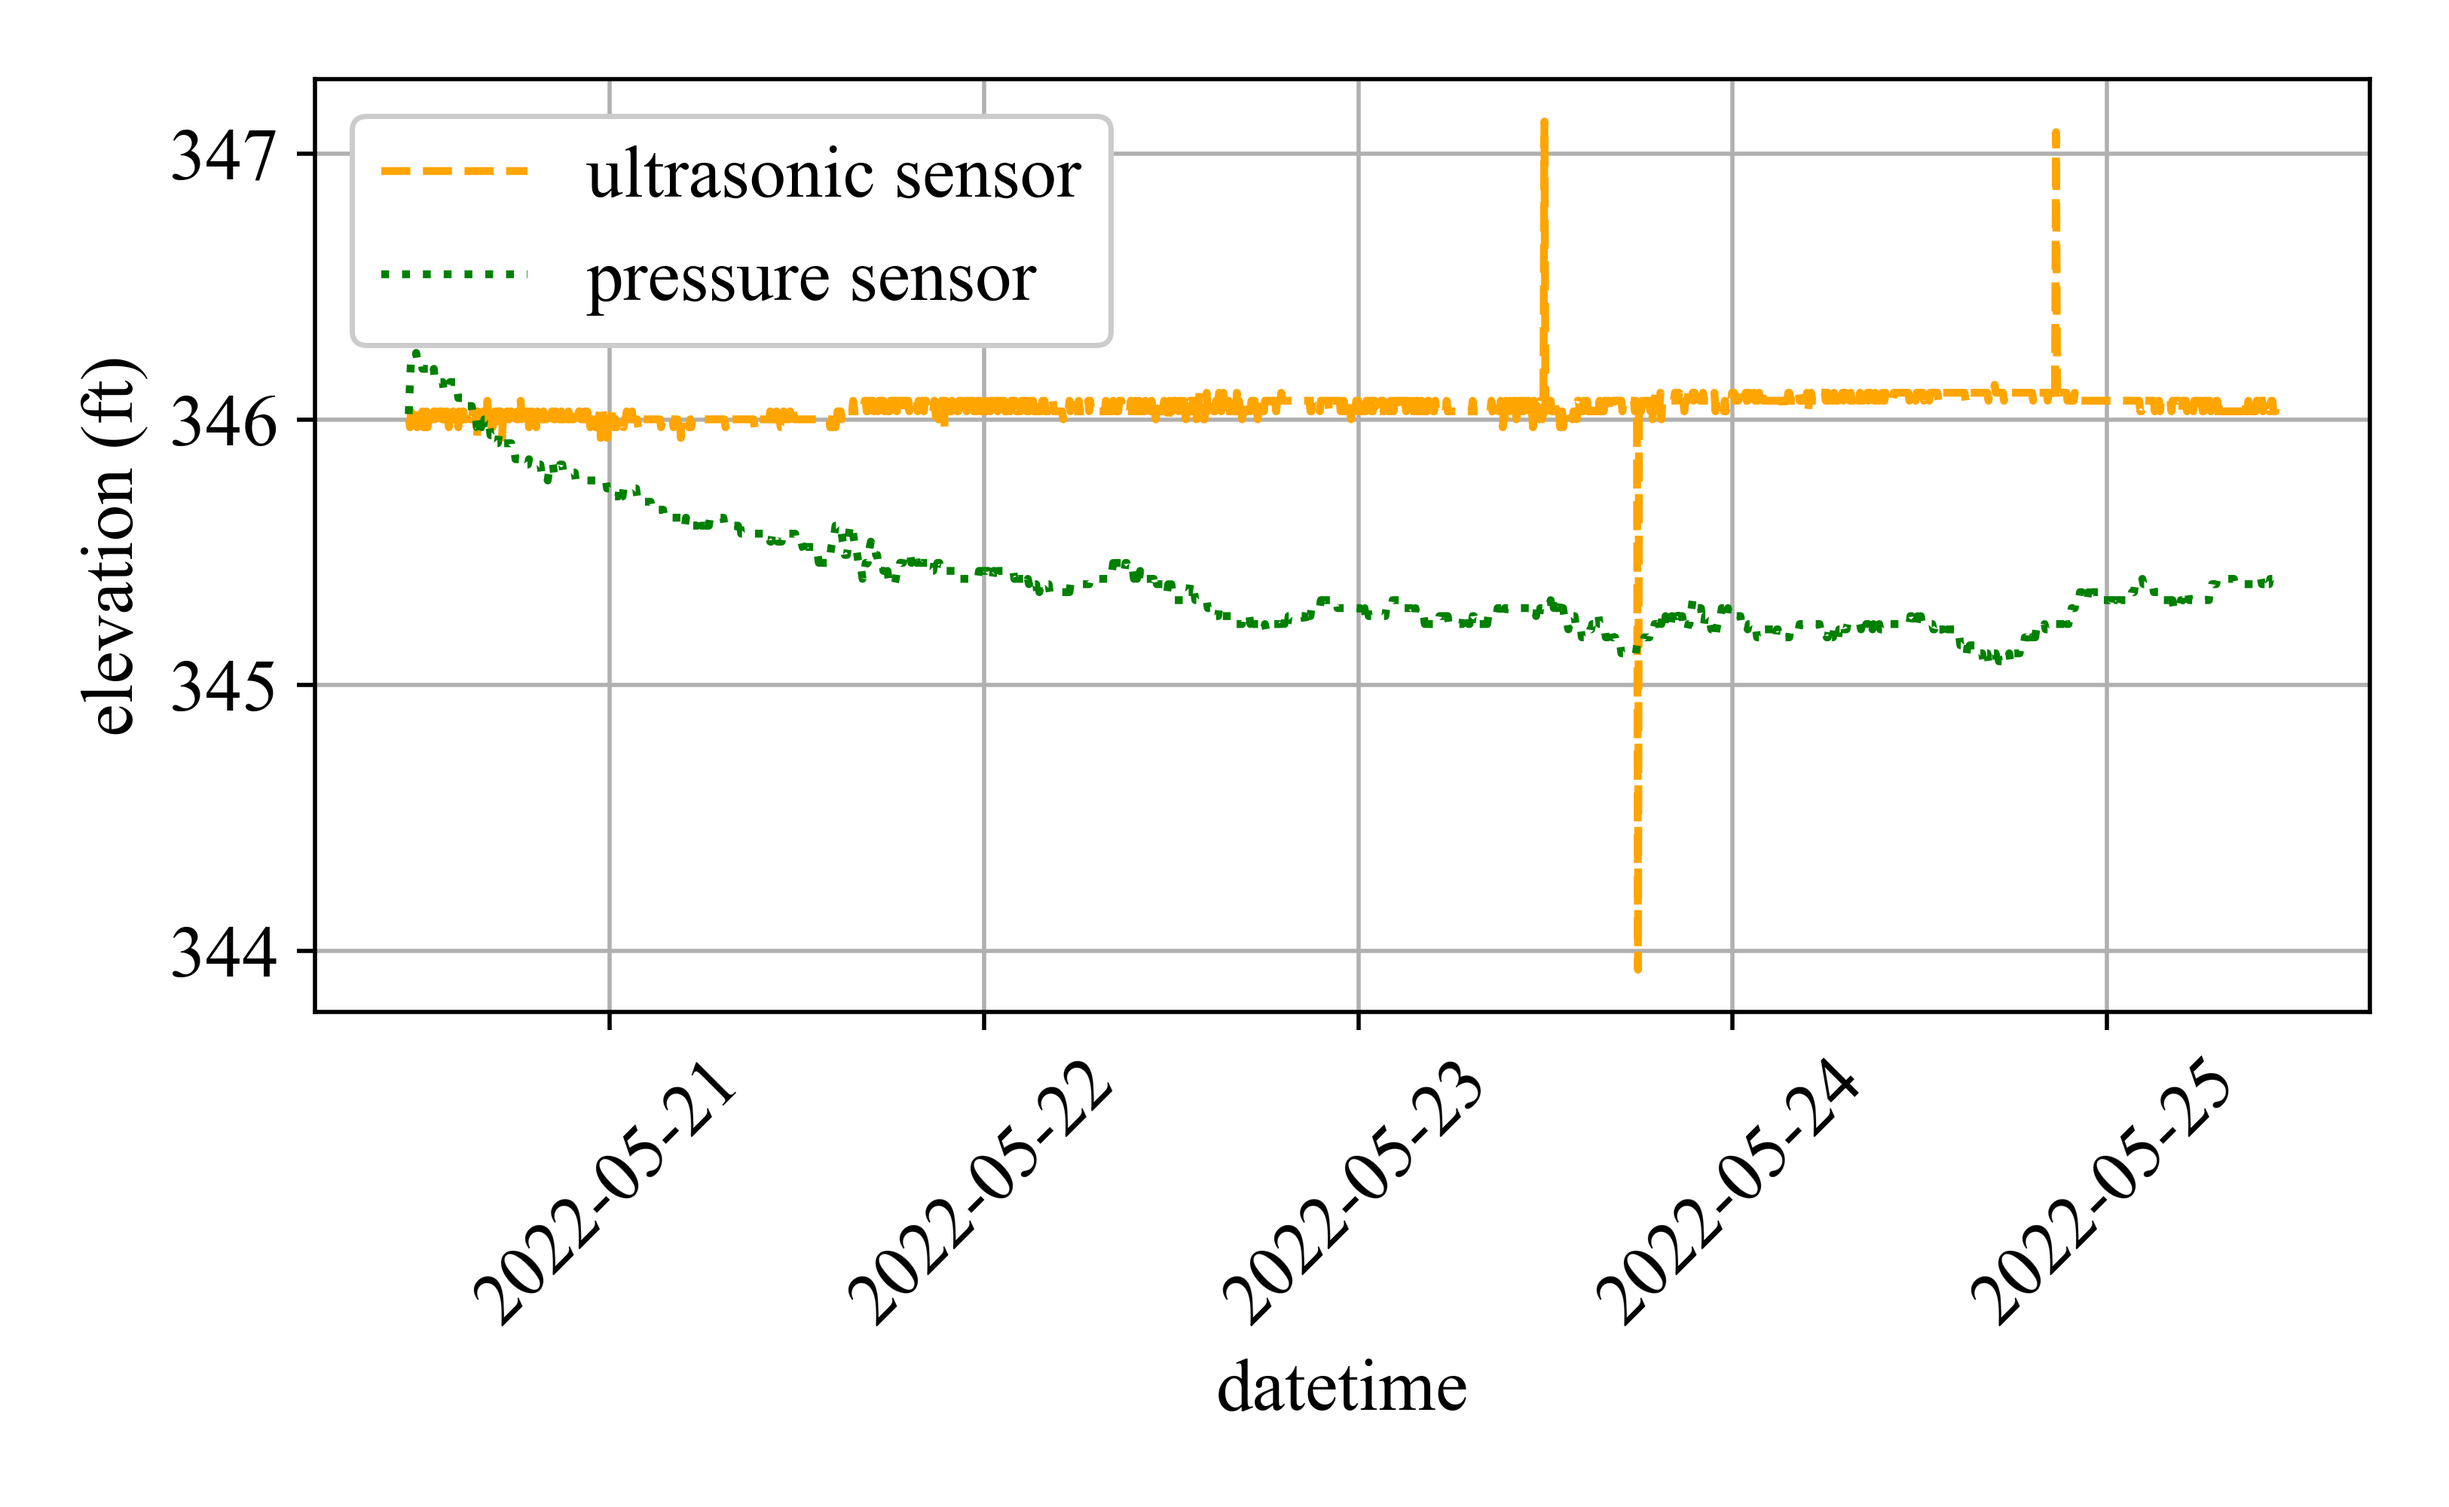
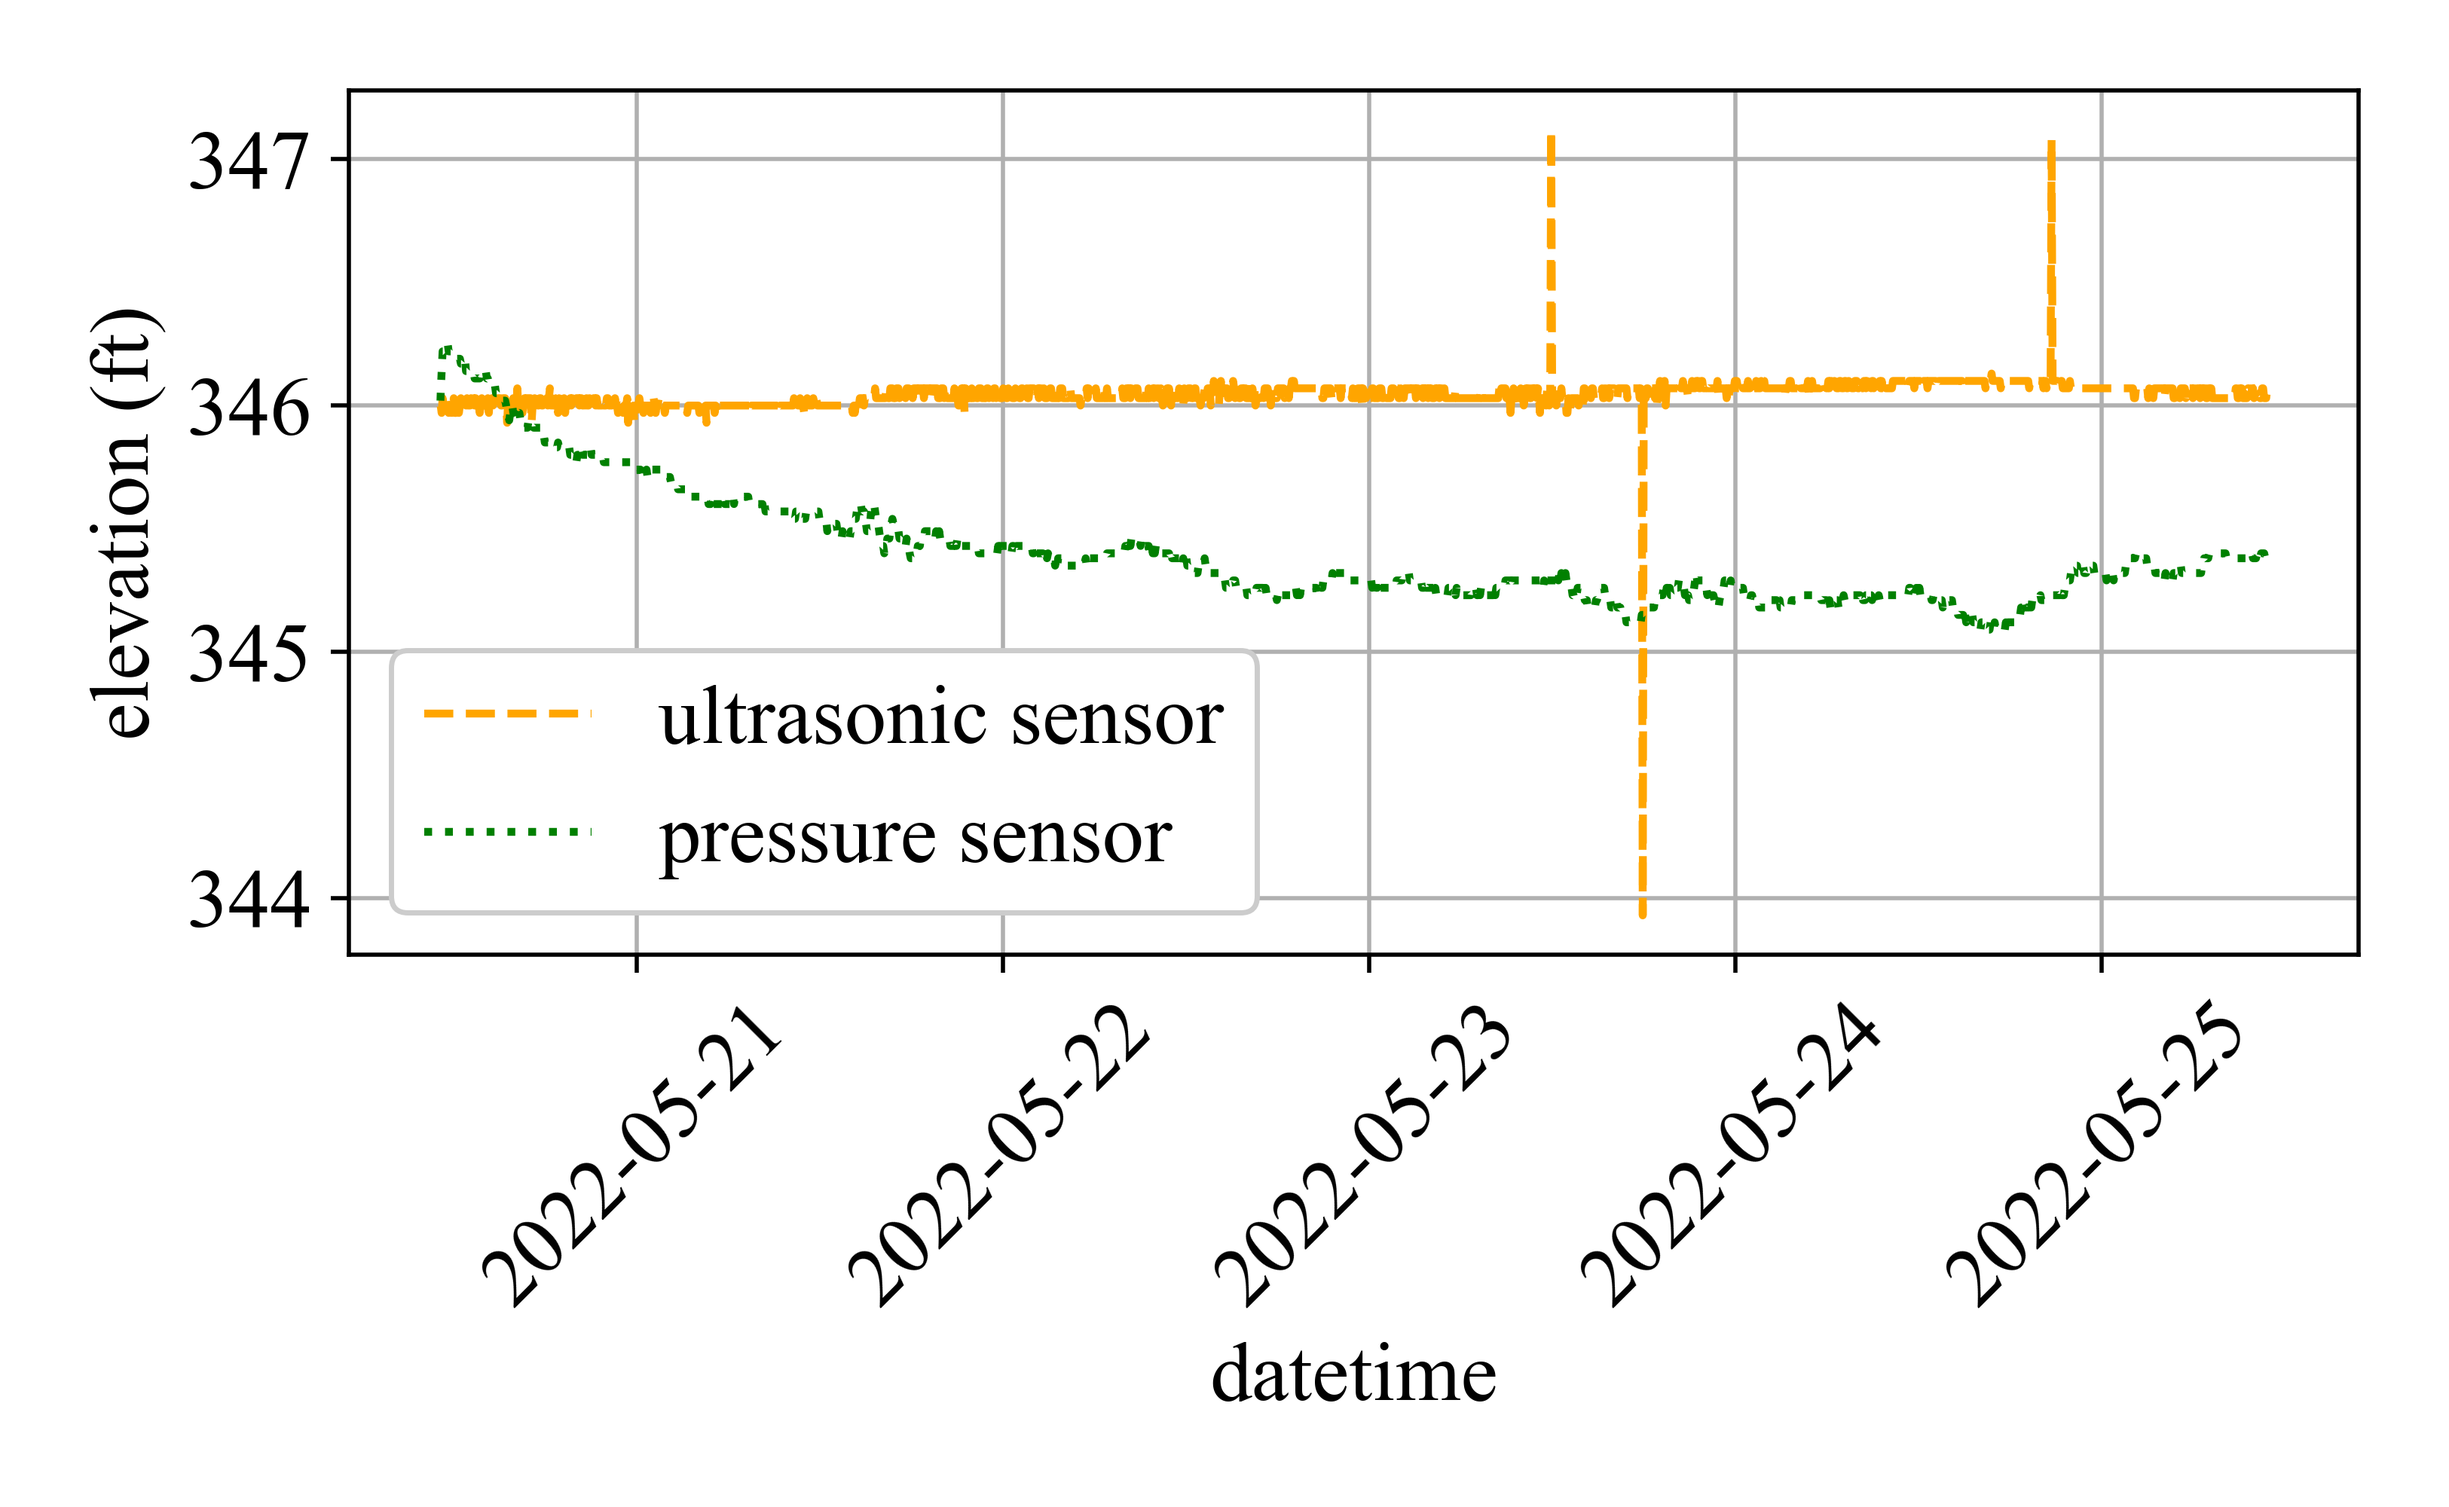
change font size

Changed region(s): [[0.0311, 0.031, 0.9634, 0.868], [0.4972, 0.899, 0.6215, 0.961], [0.9323, 0.403, 0.9634, 0.465]]

diff --git a/field tests/05_20-05_25/plot_data.py b/field tests/05_20-05_25/plot_data.py
@@ -15,7 +15,7 @@ import numpy as np
 import sys
 np.set_printoptions(threshold=sys.maxsize)
 plt.rcParams["font.family"] = "Times New Roman"
-mpl.rcParams.update({'font.size': 14})
+mpl.rcParams.update({'font.size': 16})
 
 import IPython as IP
 IP.get_ipython().magic('reset -sf')
